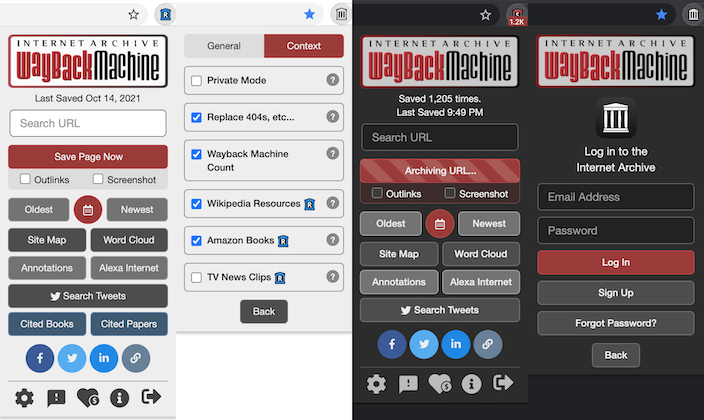
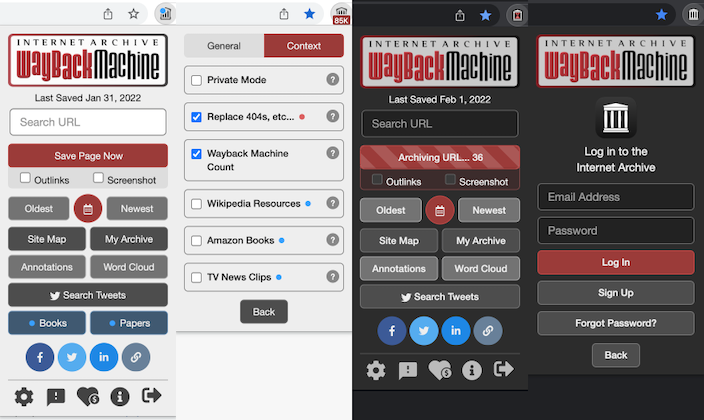
App store screenshots and feature list update (#858)
* updated app store screenshots for chrome, firefox, safari
* changed ordering of screenshots
* removed Alexa and added My Web Archive to Readme & About page
* updated popup screenshots for readme

diff --git a/webextension/about.html b/webextension/about.html
@@ -40,6 +40,10 @@
             <p>Display count of snapshots of the current page stored in the Wayback Machine.</p>
           </li>
           <li>
+            <h4>My Web Archive</h4>
+            <p>Save URLs to your public archive page on the Internet Archive.</p>
+          </li>
+          <li>
             <h4>Annotations</h4>
             <p>Provides a list of annotations for the current web page and domain, provided by <a href="https://web.hypothes.is" target="_blank"><i>Hypothes.is</i></a>.</p>
           </li>
@@ -52,8 +56,8 @@
             <p>Present a sunburst diagram for the domain you are currently viewing, or create a <i>Word Cloud</i> from the link's anchor text of the page you are on.</p>
           </li>
           <li>
-            <h4>Tweets, Alexa Internet, Share Links</h4>
-            <p>Search Twitter for information regarding your current page, or provide analytics from <a href="https://www.alexa.com" target="_blank"><i>Alexa Internet</i></a>. Share archived links on social media.</p>
+            <h4>Tweets &amp; Share Links</h4>
+            <p>Search Twitter for information regarding your current page, or share archived links on social media.</p>
           </li>
 <!--
           <li>

diff --git a/README.md b/README.md
@@ -1,3 +1,5 @@
+<img width="64px" align="left" src="webextension/images/app-icon/app-icon128.png">
+
 # Wayback Machine Web Browser Extension
 
 In cooperation with [Google Summer of Code](https://summerofcode.withgoogle.com), The [Internet Archive](https://archive.org) presents *The Official Wayback Machine Extension*. With the power of the Wayback Machine, we let you go back in time to see how a URL has changed and evolved through the history of the Web!
@@ -11,10 +13,11 @@ In cooperation with [Google Summer of Code](https://summerofcode.withgoogle.com)
 - **Oldest, Newest &amp; Overview** - View the first version of a page or the most recently saved in the Wayback Machine. Or view a calendar overview of all archived pages.
 - **Replace 404s, etc...** - When an error occurs, automatically check if an archived copy is available. Checks against 4xx &amp; 5xx HTTP error codes.
 - **Wayback Machine Count** - Display count of snapshots of the current page stored in the Wayback Machine.
+- **My Web Archive** - Save URLs to your public archive page on the Internet Archive.
 - **Annotations** - Provides a list of annotations for the current web page and domain, provided by [Hypothes.is](https://web.hypothes.is).
 - **Relevant Resources** - View archived digitized books while visiting *Amazon Books*, research papers and books while visiting *Wikipedia*, and recommended *TV News Clips* while visiting news websites.
 - **Site Map &amp; Word Cloud** - Present a sunburst diagram for the domain you are currently viewing, or create a *Word Cloud* from the link's anchor text of the page you are on.
-- **Tweets, Alexa Internet, Share Links** - Search Twitter for information regarding your current page, or provide analytics from [Alexa Internet](https://www.alexa.com). Share archived links on social media.
+- **Tweets &amp; Share Links** - Search Twitter for information regarding your current page, or share archived links on social media.
 
 
 ## Installing the Extension
